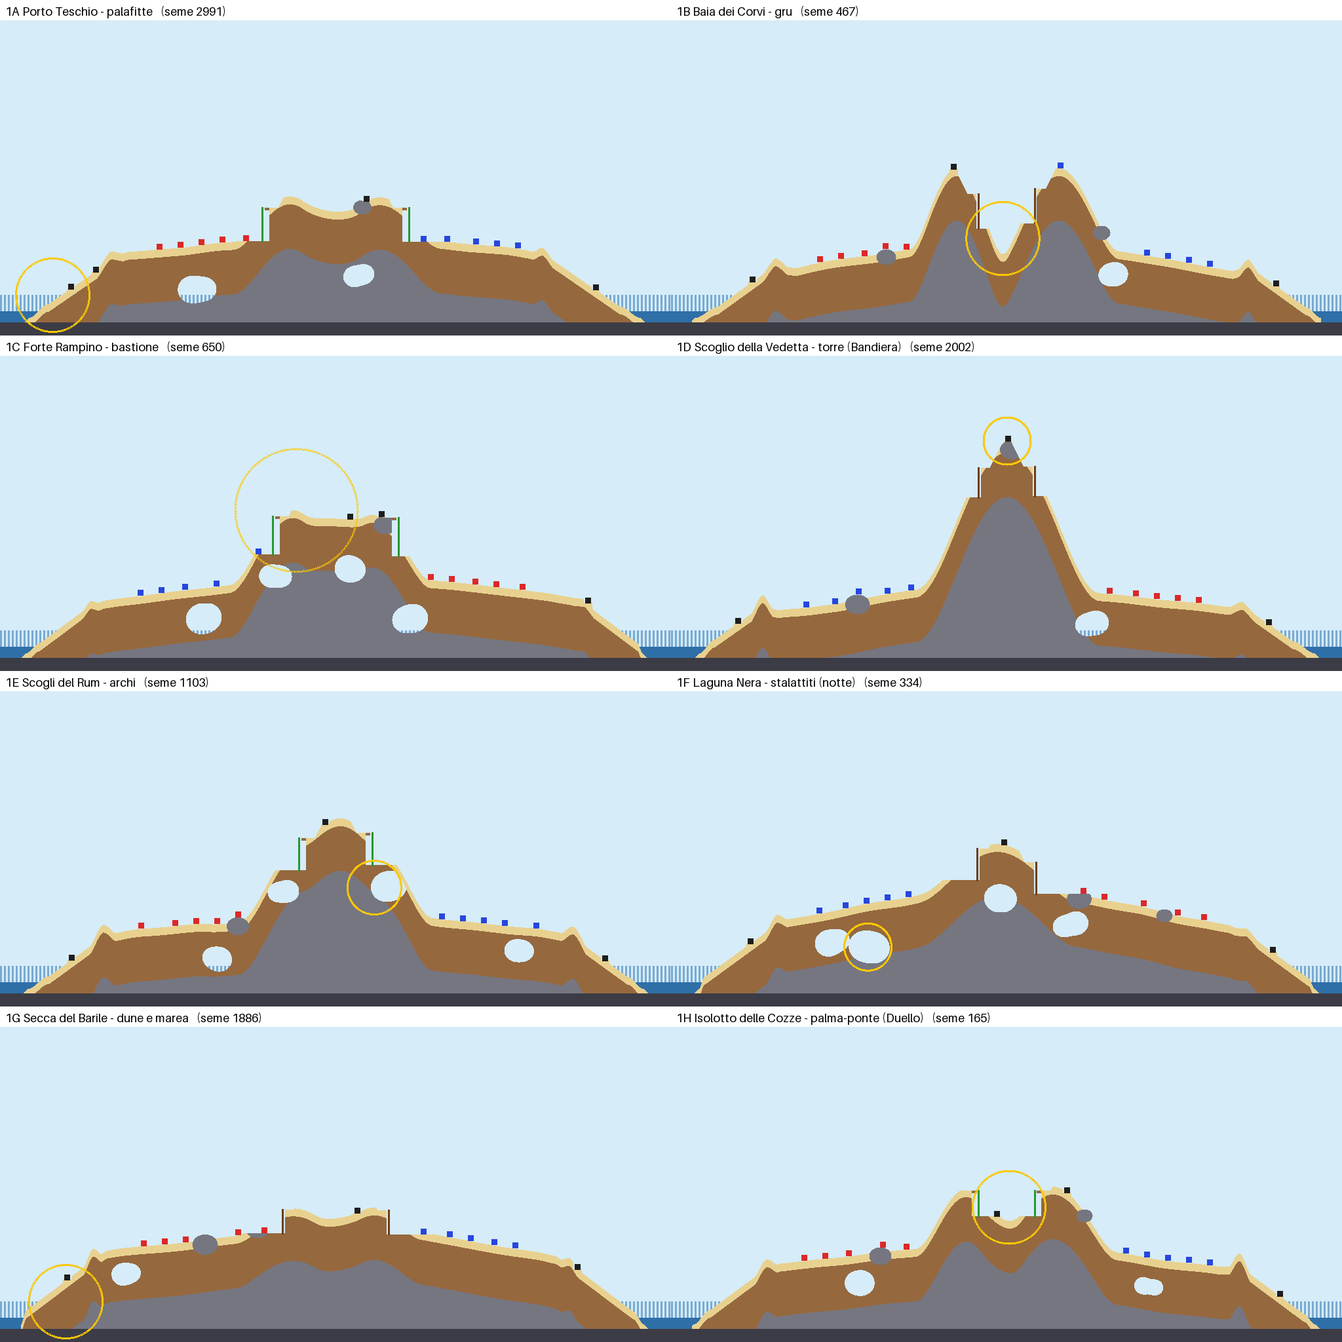
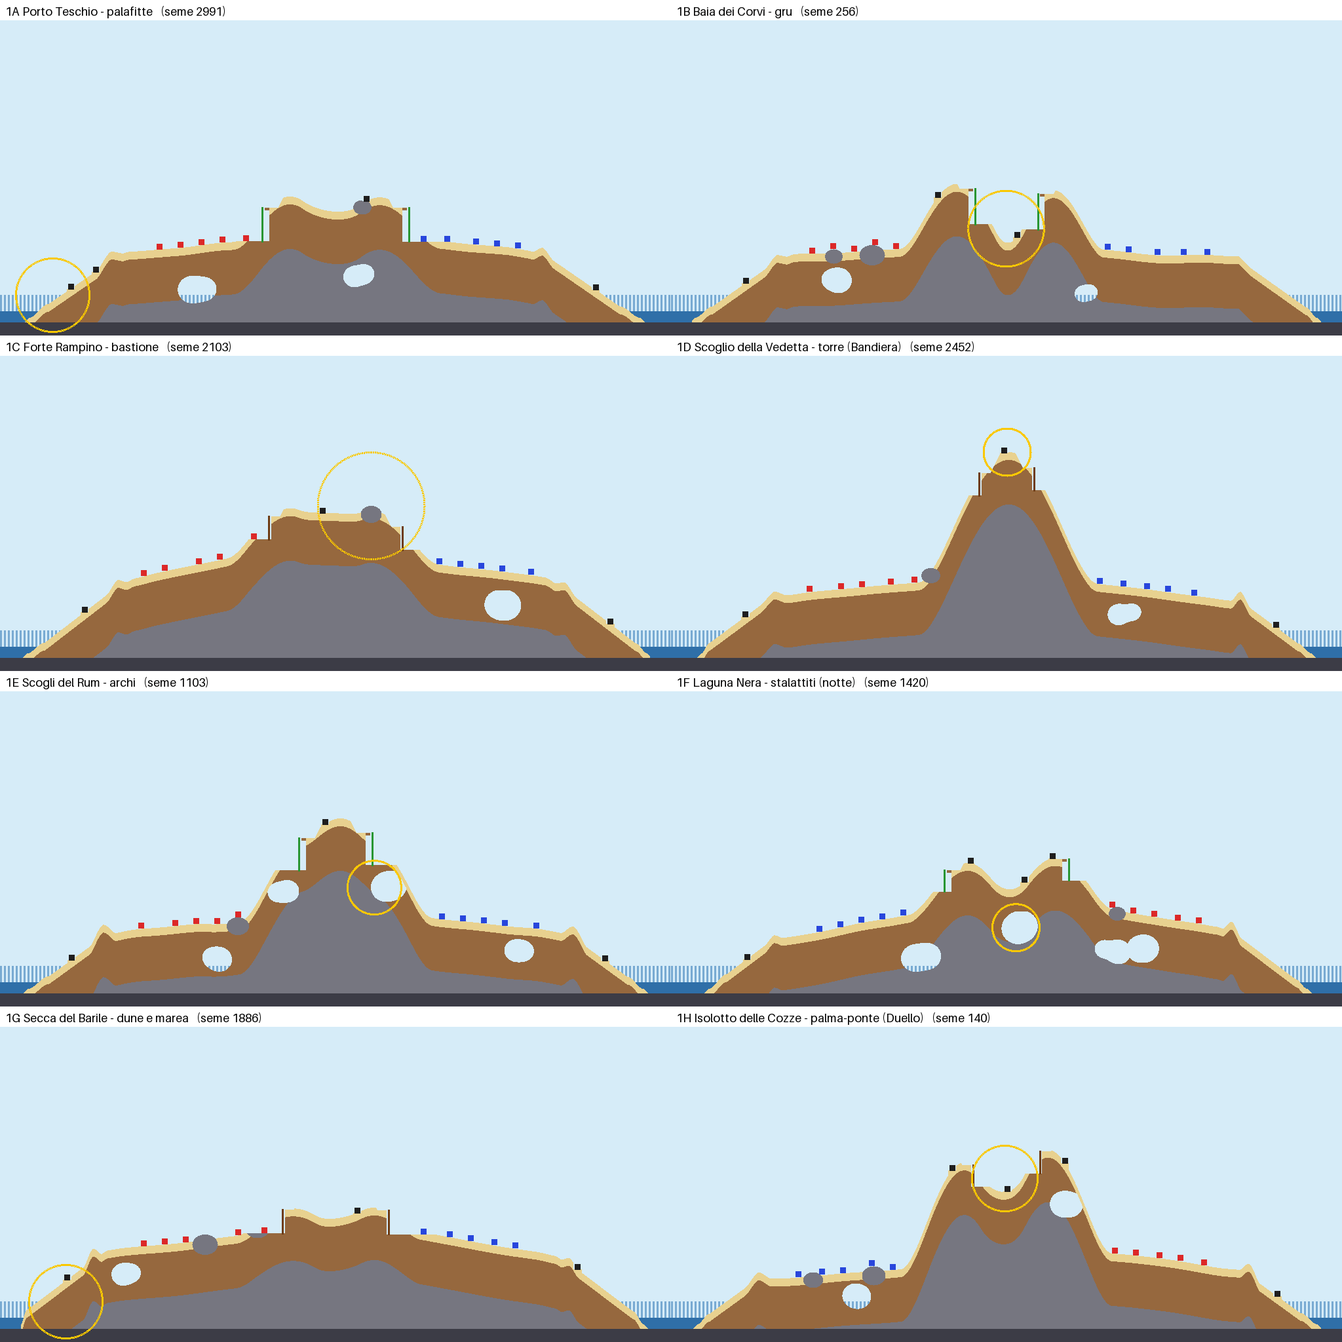
P2 livelli: semi con partenze eque e vetta 1D raggiungibile
Vincolo nuovo (bot della Campagna, 22/11): l'attaccante non parte più in basso
del difensore (scarto <= 20 px sulla media dei primi n posti, n = 1..5), nessun
attaccante sotto y 790, vincolo nei due sensi su 1A e 1B, vetta raggiungibile
sulla Bandiera (1D). Cambiano 1B 256, 1C 2103, 1D 2452, 1F 1420, 1H 140.

Claude-Session: https://claude.ai/code/session_01JsJeh9pbRFg98w2Q8ZV5wF

diff --git a/scripts/mappe/isole/misure.ts b/scripts/mappe/isole/misure.ts
@@ -1,7 +1,7 @@
 // Misure di una mappa generata che servono a scegliere il seme di un'isola del cap. 1 (Scenario e livelli, P2).
 // Pure: leggono la maschera, non la cambiano. Le usa scegli-semi.ts e il test tests/mappe/isole-cap1.test.ts.
 import { MATERIALE, type MappaGenerata } from '../../../src/core/tipi';
-import { superficie } from '../../../src/battaglia/gen/analisi';
+import { camminata, superficie } from '../../../src/battaglia/gen/analisi';
 import { BIL } from '../../../src/contenuti/bilanciamento';
 import { validaMappa } from '../../../src/battaglia/gen/valida';
 
@@ -25,6 +25,17 @@ export interface Misure {
   /** px tra il mare della Marea alta e lo spawn più basso (06 §7.6). Il validatore intero a mare 900 non passa con
    *  nessun seme del generatore di oggi (solido, barili, cannone): qui si misura solo quanto restano all'asciutto. */
   margineMareaAlta: number;
+  /** quota delle partenze (06 §4 rivisto col bot della Campagna, 22/11): y dei piedi, y verso il basso.
+   *  `scartoMedia` = media y attaccante − media y difensore su tutti e 5 i posti (> 0 = l'attaccante parte più in basso).
+   *  `scartoPeggiore` = lo stesso col caso peggiore tra i primi n posti usati da ogni lato (n = 1…5, la sim usa i primi). */
+  scartoMedia: number;
+  scartoPeggiore: number;
+  /** lo stesso visto dal difensore (> 0 = il difensore parte più in basso): conta sulle isole che il giocatore difende */
+  scartoPeggioreDifensore: number;
+  /** y del piede più basso dell'attaccante (più grande = più vicino al mare che sale) */
+  attaccantePiuBasso: number;
+  /** la cima più alta della mappa si raggiunge a piedi, saltando e con scale e liane da tutti e due i lati */
+  vettaRaggiungibile: boolean;
   appigli: number;
   scale: number;
   liane: number;
@@ -96,9 +107,21 @@ export function misura(m: MappaGenerata): Misure {
   const margineMareaAlta = Math.min(...piedi.map((p) => BIL.mondo.mareMareaAlta - p.y));
   const ap = m.appigli ?? [];
   void cx;
+  const media = (v: { y: number }[], n: number) => v.slice(0, n).reduce((t, p) => t + p.y, 0) / n;
+  const [att, dif] = m.spawn;
+  let scartoPeggiore = -Infinity, scartoPeggioreDifensore = -Infinity;
+  for (let na = 1; na <= att.length; na++) for (let nd = 1; nd <= dif.length; nd++) {
+    scartoPeggiore = Math.max(scartoPeggiore, media(att, na) - media(dif, nd));
+    scartoPeggioreDifensore = Math.max(scartoPeggioreDifensore, media(dif, nd) - media(att, na));
+  }
+  const scartoMedia = media(att, att.length) - media(dif, dif.length);
+  const attaccantePiuBasso = Math.max(...att.map((p) => p.y));
+  const vettaRaggiungibile = [att, dif].every((lato) => raggiunte(m, sup, lato[0].x).cima <= cima + 8);
   return {
     colline: unite, cima, larghezzaCima, valle, grotte, grotteTettoSottile: sottile, rivaBassa,
-    margineMareaAlta, appigli: ap.length, scale: ap.filter((x) => x.tipo === 'scala').length,
+    margineMareaAlta, scartoMedia: Math.round(scartoMedia), scartoPeggiore: Math.round(scartoPeggiore),
+    scartoPeggioreDifensore: Math.round(scartoPeggioreDifensore), attaccantePiuBasso,
+    vettaRaggiungibile, appigli: ap.length, scale: ap.filter((x) => x.tipo === 'scala').length,
     liane: ap.filter((x) => x.tipo !== 'scala').length, barili: (m.barili ?? []).length,
   };
 }
@@ -112,4 +135,40 @@ export function mareMassimo(m: MappaGenerata): number {
     ok = mare;
   }
   return ok;
+}
+
+/**
+ * Colonne raggiungibili da x0 senza limite di percorso: a piedi (gradino e salto, come `camminata` del generatore)
+ * e con scale e liane (si sale dal piede dell'appiglio e si scende in cima sul piano accanto). Restituisce le colonne
+ * raggiunte e la y più alta toccata. È la prova "la vetta della Bandiera si raggiunge" (livelli-cap1.md §2, 1D).
+ */
+export function raggiunte(m: MappaGenerata, sup: Int32Array, x0: number): { da: number[]; cima: number } {
+  const { w: W, mare } = m.terreno;
+  const preso = new Uint8Array(W);
+  const coda = [x0];
+  const ap = m.appigli ?? [];
+  while (coda.length) {
+    const x = coda.pop()!;
+    if (preso[x]) continue;
+    const [a, b] = camminata(sup, mare, x, 1e9);
+    for (let c = a; c <= b; c++) preso[c] = 1;
+    for (const g of ap) {
+      // piede dell'appiglio: una colonna raggiunta a ±20 px con il suolo vicino al fondo
+      const piede = [...Array(41).keys()].map((k) => g.x - 20 + k)
+        .some((c) => c >= a && c <= b && Math.abs(sup[c] - g.yBasso) <= 16);
+      if (!piede) continue;
+      for (let k = -30; k <= 30; k++) {
+        const c = g.x + k;
+        if (c >= 0 && c < W && !preso[c] && Math.abs(sup[c] - g.yAlto) <= 12) { coda.push(c); break; }
+      }
+      for (let k = 30; k >= -30; k--) {
+        const c = g.x + k;
+        if (c >= 0 && c < W && !preso[c] && Math.abs(sup[c] - g.yAlto) <= 12) { coda.push(c); break; }
+      }
+    }
+  }
+  const da: number[] = [];
+  let cima = 1e9;
+  for (let x = 0; x < W; x++) if (preso[x]) { da.push(x); cima = Math.min(cima, sup[x]); }
+  return { da, cima };
 }

diff --git a/src/contenuti/capitolo-1.ts b/src/contenuti/capitolo-1.ts
@@ -23,18 +23,18 @@ const isole: DefIsola[] = [
   },
   {
     id: '1B', nome: 'baiaDeiCorvi', regione: 'costa', adiacenti: ['1A', '1C', '1D'],
-    pos: { x: 420, y: 640 }, raggio: 90, bioma: 'porto', mappa: { seme: 467 }, trucco: 'gru',
+    pos: { x: 420, y: 640 }, raggio: 90, bioma: 'porto', mappa: { seme: 256 }, trucco: 'gru',
     padroneIniziale: 'giocatore', piratiIniziali: 2, scontro: null, premi: [],
   },
   {
     id: '1C', nome: 'forteRampino', regione: 'costa', adiacenti: ['1A', '1B', '1D', '1F'],
-    pos: { x: 1420, y: 520 }, raggio: 100, bioma: 'porto', mappa: { seme: 650 }, trucco: 'bastione',
+    pos: { x: 1420, y: 520 }, raggio: 100, bioma: 'porto', mappa: { seme: 2103 }, trucco: 'bastione',
     padroneIniziale: 'marina', piratiIniziali: 2, scontro: { tipo: 'assalto' },
     premi: [{ t: 'arma', arma: 'rampino' }, { t: 'mossa', mossa: 'dondolo' }],
   },
   {
     id: '1D', nome: 'scoglioDellaVedetta', regione: 'costa', adiacenti: ['1B', '1C'],
-    pos: { x: 800, y: 300 }, raggio: 75, bioma: 'isola', mappa: { seme: 2002 }, trucco: 'torre',
+    pos: { x: 800, y: 300 }, raggio: 75, bioma: 'isola', mappa: { seme: 2452 }, trucco: 'torre',
     padroneIniziale: 'marina', piratiIniziali: 1, scontro: { tipo: 'bandiera' },
     premi: [{ t: 'mossa', mossa: 'saltoAppoggio' }],
   },
@@ -46,7 +46,7 @@ const isole: DefIsola[] = [
   },
   {
     id: '1F', nome: 'lagunaNera', regione: 'lagune', adiacenti: ['1C', '1E', '1G'],
-    pos: { x: 2300, y: 740 }, raggio: 95, bioma: 'grotta', mappa: { seme: 334 }, trucco: 'stalattiti',
+    pos: { x: 2300, y: 740 }, raggio: 95, bioma: 'grotta', mappa: { seme: 1420 }, trucco: 'stalattiti',
     padroneIniziale: 'marina', piratiIniziali: 2, scontro: { tipo: 'assalto', notte: true },
     premi: [{ t: 'arma', arma: 'ancora' }, { t: 'mossa', mossa: 'scivolata' }],
   },
@@ -58,7 +58,7 @@ const isole: DefIsola[] = [
   },
   {
     id: '1H', nome: 'isolottoDelleCozze', regione: 'lagune', adiacenti: ['1E', '1G'],
-    pos: { x: 2200, y: 1420 }, raggio: 70, bioma: 'isola', mappa: { seme: 165 }, trucco: 'palmaPonte',
+    pos: { x: 2200, y: 1420 }, raggio: 70, bioma: 'isola', mappa: { seme: 140 }, trucco: 'palmaPonte',
     padroneIniziale: 'marina', piratiIniziali: 1, scontro: { tipo: 'duello', capo: 'Rigidini' },
     premi: [{ t: 'mossa', mossa: 'tuffo' }, { t: 'bandiera', id: 'teschioFumante' }],
   },

diff --git a/scripts/mappe/isole/profili.ts b/scripts/mappe/isole/profili.ts
@@ -52,11 +52,11 @@ function grottaGrande(mappa: MappaGenerata) {
   return { x: bx, y: by, r: 70 };
 }
 
-export const PROFILI: Profilo[] = [
+const PROFILI_TRUCCO: Profilo[] = [
   {
     // torre di vedetta in cima, Bandiera: una sola cima alta e stretta, più scale e liane possibili
     id: '1D', trucco: 'torre',
-    adatto: (m) => m.colline.length === 1,
+    adatto: (m) => m.colline.length === 1 && m.vettaRaggiungibile,
     voto: (m) => (600 - m.cima) * 2 - m.larghezzaCima + m.appigli * 40,
     descrivi: testo, punto: cima,
   },
@@ -111,3 +111,21 @@ export const PROFILI: Profilo[] = [
     descrivi: testo, punto: () => ({ x: 160, y: 900, r: 110 }),
   },
 ];
+
+/** Partenze eque (bot della Campagna, 22/11/2026): con qualsiasi numero di pirati per lato l'attaccante non parte
+ *  più in basso del difensore di oltre 20 px (media delle y dei primi n posti usati), e nessun attaccante parte
+ *  sotto y 790 (il mare che sale dal turno 12 arriva a ~825 nelle battaglie lunghe). */
+export const SCARTO_MAX = 20;
+export const ATTACCANTE_Y_MAX = 790;
+export const partenzeEque = (m: Misure) => m.scartoPeggiore <= SCARTO_MAX && m.attaccantePiuBasso <= ATTACCANTE_Y_MAX;
+/** 1A e 1B sono del giocatore: la Marina le attacca (il giocatore difende) e lui le riprende (attacca).
+ *  Lì il vincolo vale nei due sensi. */
+const DUE_SENSI = new Set(['1A', '1B']);
+
+/** Tutti i profili con il vincolo comune delle partenze eque; a pari forma vince chi fa partire l'attaccante più in alto. */
+export const PROFILI: Profilo[] = PROFILI_TRUCCO.map((p) => ({
+  ...p,
+  adatto: (m) => partenzeEque(m) && (!DUE_SENSI.has(p.id) || m.scartoPeggioreDifensore <= SCARTO_MAX) && p.adatto(m),
+  voto: (m) => p.voto(m) + (SCARTO_MAX - m.scartoPeggiore) * 0.5,
+  descrivi: (m) => `${p.descrivi(m)}, partenze: scarto ${m.scartoPeggiore} (media ${m.scartoMedia}), attaccante più basso y ${m.attaccantePiuBasso}${m.vettaRaggiungibile ? ', vetta raggiungibile' : ''}`,
+}));

diff --git a/tests/mappe/isole-cap1.test.ts b/tests/mappe/isole-cap1.test.ts
@@ -6,7 +6,7 @@ import { CAPITOLO_1 } from '../../src/contenuti/capitolo-1';
 import { generaMappa } from '../../src/battaglia/gen';
 import { validaMappa } from '../../src/battaglia/gen/valida';
 import { misura, mareMassimo } from '../../scripts/mappe/isole/misure';
-import { PROFILI } from '../../scripts/mappe/isole/profili';
+import { ATTACCANTE_Y_MAX, PROFILI, SCARTO_MAX } from '../../scripts/mappe/isole/profili';
 
 vi.setConfig({ testTimeout: 30_000 });
 
@@ -26,7 +26,13 @@ describe('isole del cap. 1', () => {
       expect(validaMappa(m)).toEqual([]);
       const profilo = PROFILI.find((p) => p.id === isola.id && p.trucco === isola.trucco);
       expect(profilo, `nessun profilo per ${isola.id} ${isola.trucco}`).toBeDefined();
-      expect(profilo!.adatto(misura(m))).toBe(true);
+      const mi = misura(m);
+      // partenze eque (bot della Campagna, 22/11): l'attaccante non parte più in basso del difensore, con qualsiasi n
+      expect(mi.scartoPeggiore).toBeLessThanOrEqual(SCARTO_MAX);
+      expect(mi.attaccantePiuBasso).toBeLessThanOrEqual(ATTACCANTE_Y_MAX);
+      if (isola.id === '1A' || isola.id === '1B') expect(mi.scartoPeggioreDifensore).toBeLessThanOrEqual(SCARTO_MAX);
+      if (isola.scontro?.tipo === 'bandiera') expect(mi.vettaRaggiungibile).toBe(true);
+      expect(profilo!.adatto(mi)).toBe(true);
     });
   }
 

diff --git a/docs/progetto/studio-v2/livelli-cap1.md b/docs/progetto/studio-v2/livelli-cap1.md
@@ -22,15 +22,15 @@
 
 Ordine consigliato di gioco (progressione.md): round 1 → 1D e 1C; round 2 → 1E; round 3 → 1F e 1G; round 4 → 1H. 1A e 1B sono del giocatore dall'inizio: la loro mappa si vede solo quando la Marina le contrattacca, quindi il loro trucco è pensato **in difesa**.
 
-### 1D Scoglio della Vedetta — torre di vedetta (Bandiera) · seme 2002
-- **Forma:** una sola punta alta e stretta (cima a y 321, larga 52 px), due piane basse ai lati. È la vetta più alta tra 3000 semi validi. Due scale portano sull'altopiano sotto la punta.
+### 1D Scoglio della Vedetta — torre di vedetta (Bandiera) · seme 2452
+- **Forma:** una sola punta alta e stretta (cima a y 355, larga 74 px), due piane ai lati alla stessa quota. Due scale portano sull'altopiano sotto la punta e la vetta si raggiunge da tutti e due i lati (provato, §3).
 - **Trucco:** la **bandiera della Marina** sta sulla punta di roccia. Su ogni spalla della punta c'è una **torre di vedetta** di legno a 2 piani (moduli *torre* + *scala* + *anello*): è la via più veloce verso la vetta. Due pali per torre: se ne tagli uno con un colpo la torre crolla **verso il colpo** (tempo 2) e porta giù chi c'è sopra.
 - **Perché funziona:** è la prima battaglia. Insegna la scala (tutorial di progressione.md) e dà il primo «wow» di distruzione entro 5 minuti (business). La scelta: salire veloce sulla torre o abbatterla sotto al nemico che sale.
 - **Equità:** una torre per lato, stessa altezza. La bandiera resta sulla roccia: il crollo non la sposta mai.
 - **Serve:** sostegno strutturale tempo 2 (P1 Fase 3), regola Bandiera (P1 §4 delle richieste di P2-contratti).
 
-### 1C Forte Rampino — bastione di ferro con portone · seme 650
-- **Forma:** una collina sola con l'altopiano più largo (370 px), grotte sotto i fianchi.
+### 1C Forte Rampino — bastione di ferro con portone · seme 2103
+- **Forma:** una collina sola con un altopiano largo 322 px, una grotta sotto il fianco del difensore.
 - **Trucco:** sull'altopiano il **bastione della Marina**: muri di **ferro** alti 64 px (non si scavano) su tre lati, il **portone di legno** sul lato dell'attaccante, il tetto aperto. Si entra in tre modi: sfondare il portone (2 cannonate, o il legno che brucia), **scavalcare** con le liane già sui fianchi, o **far crollare il pavimento** scavando dalle grotte sotto (il ferro regge, la terra sotto no: il bastione si inclina e i difensori scivolano fuori). Due **anelli di ferro** sui muri anticipano il Rampino, che è il premio dell'isola.
 - **Anti-frustrazione:** il tetto è aperto, quindi l'area non è mai chiusa dal ferro (06 §7.5). Ferro totale ≈ 2.000 px, sotto il 3%.
 - **Serve:** solo materiali che esistono già (ferro, legno) e il tempo 1 per il portone. **È il trucco più facile**: si può costruire per primo in Fase B.
@@ -40,10 +40,10 @@ Ordine consigliato di gioco (progressione.md): round 1 → 1D e 1C; round 2 → 
 - **Trucco:** due **archi di roccia** per lato (modulo *arco*) sopra le grotte: ci si cammina sopra e ci si ripara sotto. Un colpo sul pilastro fa cadere l'arco **intero** (tempo 2, 20-30 danni) e lo trasforma in una rampa di macerie. Così chi è sopra cade e chi era sotto resta schiacciato o trova un nuovo passaggio.
 - **Serve:** tempo 2.
 
-### 1F Laguna Nera — stalattiti (grotta, notturna) · seme 334
-- **Forma:** la mappa con le grotte più grandi e dal tetto più spesso (30.000 px di grotta, tetto sottile zero).
+### 1F Laguna Nera — stalattiti (grotta, notturna) · seme 1420
+- **Forma:** due colline basse e grotte grandi dal tetto spesso (32.000 px di grotta), una proprio sotto la valle centrale.
 - **Trucco:** dalle volte delle grotte pendono **stalattiti** di roccia larghe 16-24 px. Un'esplosione entro 40 px le stacca (tempo 1): cadono dritte, fanno 20 danni a chi c'è sotto e restano piantate come **stalagmiti**, cioè un riparo nuovo. Di notte si vedono solo alla luce delle lanterne: chi spara alla lanterna giusta illumina la trappola.
-- **Limite di oggi:** il generatore di oggi fa solo il terreno dell'Isola. Una vera Grotta ha il **soffitto** su tutta la mappa (06 §2): va fatta in Fase B, ed è il lavoro più grosso del generatore. Il seme 334 resta valido finché il bioma Grotta non esiste.
+- **Limite di oggi:** il generatore di oggi fa solo il terreno dell'Isola. Una vera Grotta ha il **soffitto** su tutta la mappa (06 §2): va fatta in Fase B, ed è il lavoro più grosso del generatore. Il seme 1420 resta valido finché il bioma Grotta non esiste.
 - **Serve:** tempo 1, bioma Grotta col soffitto, notte (P1).
 
 ### 1G Secca del Barile — dune e marea · seme 1886
@@ -52,14 +52,14 @@ Ordine consigliato di gioco (progressione.md): round 1 → 1D e 1C; round 2 → 
 - **Problema da decidere (Lead P2 e Bilanciamento):** lo scontro chiede `bariliExtra: 5`, ma con 5 posti di spawn per lato **su questa mappa c'è un solo posto libero in più** a ≥ 200 px da tutti gli spawn (provato anche sui semi di riserva 430 e 1432: zero posti). E il validatore accetta solo 3-4 barili (`BIL.barili.max`). Proposta: i 5 barili extra stanno sulle dune e contano la distanza solo dagli spawn **usati** (la Marina ne usa 1), e non si accendono nel turno 1. In alternativa: 2 barili extra invece di 5.
 - **Serve:** marea a ciclo nella sim (nuovo, piccolo: un numero di `mare` che cambia a fine round), sabbia che frana (P1).
 
-### 1H Isolotto delle Cozze — palma che fa da ponte (Duello) · seme 165
-- **Forma:** due colline con una valle stretta in mezzo (178 px di larghezza, 90 di profondità) e una liana su ogni bordo.
+### 1H Isolotto delle Cozze — palma che fa da ponte (Duello) · seme 140
+- **Forma:** due colline alte con una valle stretta in mezzo (156 px di larghezza, 82 di profondità) e una scala su ogni bordo.
 - **Trucco:** su ogni bordo della valle c'è una **palma** alta 220 px. Un colpo alla base la abbatte: cade **dentro la valle** e diventa un **ponte di legno** tra le due colline (20 danni a chi c'è sotto). Nel duello 1 contro 1 con Rigidini il ponte è la strada per arrivare alla sciabola, o una trappola se lo fai cadere sul nemico.
 - **Caduta a copione:** la palma non rotola davvero. Si anima una rotazione di 0,6 s e alla fine si stampa nella maschera un tronco di legno spesso 16 px, sempre nella stessa posizione. È deterministico e costa zero alla fisica.
 - **Serve:** tempo 1 per la base, la stampa del tronco (piccola, P2).
 
-### 1B Baia dei Corvi — gru con il carico (porto, in difesa) · seme 467
-- **Forma:** due colline con la valle più profonda (245 px), a V.
+### 1B Baia dei Corvi — gru con il carico (porto, in difesa) · seme 256
+- **Forma:** due colline con una valle profonda (150 px), a U.
 - **Trucco:** una **gru di legno** su una collina con il braccio sopra la valle. Dalla fune pende un **carico** (cassa di palle di cannone, 64×48 legno e ferro). Tagli la fune (con la sciabola o con un colpo entro 12 px) e il carico cade nella V: fa 30 danni a chi c'è sotto e **riempie la valle**, diventando un ponte tra le due colline. La gru stessa è legno: se ne tagli il palo cade (tempo 2).
 - **Perché in difesa:** 1B è del giocatore. Quando la Marina la attacca, la gru è dalla parte del giocatore: impara a usarla mentre difende.
 - **Serve:** fune tagliabile (game-design dec. 9: sciabola che taglia le funi), tempo 2.
@@ -73,19 +73,29 @@ Ordine consigliato di gioco (progressione.md): round 1 → 1D e 1C; round 2 → 
 
 Tutti **validi al primo tentativo** (nessun seme+1, nessuna riserva), scelti fra **3000 semi** (2129 validi) con `scripts/mappe/isole/scegli-semi.ts`. Prima si scelgono le isole con la forma più rara.
 
-| Isola | Trucco | Seme | Forma cercata | Semi adatti | Riserve |
-|---|---|---|---|---|---|
-| 1D | torre | **2002** | una cima, la più alta e stretta | 1495 | 745, 2922, 794 |
-| 1H | palmaPonte | **165** | valle larga ~170, profonda ~90 | 450 | 1664, 814, 923 |
-| 1B | gru | **467** | valle più profonda | 160 | 778, 65, 1307 |
-| 1C | bastione | **650** | altopiano più largo | 1494 | 1398, 1156, 2523 |
-| 1E | archi | **1103** | grotte col tetto sottile | 1680 | 626, 2318, 2599 |
-| 1F | stalattiti | **334** | grotte grandi col tetto spesso | 1735 | 1420, 188, 1065 |
-| 1G | dune | **1886** | piatta, regge il mare a 900 | 2123 | 430, 1432, 2604 |
-| 1A | palafitte | **2991** | riva bassa lunga, due colline | 632 | 799, 2940, 2040 |
+**Secondo giro (22/11/2026), partenze eque.** Il bot della Campagna (`studio-v2/campagna/bot-cap1.md`) ha visto che su 1D i pirati del giocatore partivano più in basso del marinaio e annegavano quando sale il mare (4 contro 1 vinto 16 volte su 40). Ora ogni seme deve rispettare anche:
+- **l'attaccante non parte più in basso del difensore**: per ogni numero di pirati per lato (la sim usa i primi n posti, dal più interno), la media delle y dell'attaccante supera quella del difensore di **20 px al massimo**;
+- **nessun attaccante parte sotto y 790** (il mare che sale dal turno 12 arriva a ~825 nelle battaglie lunghe);
+- su **1A e 1B**, che il giocatore difende e poi riprende, il vincolo vale **nei due sensi**;
+- su **1D** (Bandiera) la **vetta si raggiunge** a piedi, saltando e con scale e liane da tutti e due i lati (`raggiunte` in `misure.ts`).
 
-- I semi sono scritti in `src/contenuti/capitolo-1.ts` (campo `mappa`). Perché in battaglia esca proprio la mappa scelta, la Campagna deve passare `mappa.seme` come `ConfigBattaglia.seme`.
-- `tests/mappe/isole-cap1.test.ts` rigenera ogni isola e controlla: primo tentativo, validatore vuoto, forma ancora adatta al trucco, semi tutti diversi, 1G valida fino al mare 900. **Se il generatore cambia, il test cade**: si rilancia lo script e si aggiornano i semi.
+Restano uguali 1A, 1E e 1G, che rispettavano già il vincolo. Cambiano 1B, 1C, 1D, 1F e 1H.
+
+| Isola | Trucco | Seme | Prima | Forma cercata | Scarto partenze (px) | Semi adatti | Riserve |
+|---|---|---|---|---|---|---|---|
+| 1D | torre | **2452** | 2002 | una cima alta e stretta, vetta raggiungibile | 10 | 483 | 2277, 659, 509 |
+| 1H | palmaPonte | **140** | 165 | valle larga ~170, profonda ~90 | −28 | 145 | 165, 1664, 2161 |
+| 1B | gru | **256** | 467 | valle più profonda | 0 (difesa 19) | 6 | 139, 625, 61 |
+| 1C | bastione | **2103** | 650 | altopiano più largo | −7 | 511 | 2324, 2769, 1818 |
+| 1E | archi | **1103** | = | grotte col tetto sottile | 15 | 580 | 626, 2599, 613 |
+| 1F | stalattiti | **1420** | 334 | grotte grandi col tetto spesso | 2 | 597 | 188, 847, 1145 |
+| 1G | dune | **1886** | = | piatta, regge il mare a 900 | 18 | 728 | 1907, 975, 2639 |
+| 1A | palafitte | **2991** | = | riva bassa lunga, due colline | 11 (difesa 10) | 40 | 372, 1688, 354 |
+
+*Scarto partenze = caso peggiore di (media y attaccante − media y difensore) sui primi n posti; negativo = l'attaccante parte più in alto.*
+
+- I semi sono scritti in `src/contenuti/capitolo-1.ts` (campo `mappa`). La Campagna li passa come `ConfigBattaglia.semeMappa`: la forma dell'isola resta fissa, vento e casse cambiano a ogni tentativo.
+- `tests/mappe/isole-cap1.test.ts` rigenera ogni isola e controlla: primo tentativo, validatore vuoto, partenze eque, vetta raggiungibile sulla Bandiera, forma ancora adatta al trucco, semi tutti diversi, 1G valida fino al mare 900. **Se il generatore cambia, il test cade**: si rilancia lo script e si aggiornano i semi.
 - Il bioma non cambia il terreno di oggi (tutti usano l'Isola): i semi restano validi anche con `porto`, `scogliera` e `grotta`. Quando in Fase B arrivano i moduli e il bioma Grotta, i semi vanno riscelti.
 
 ## 4. Il kit di 12 moduli: chi usa cosa (per la Fase B)
